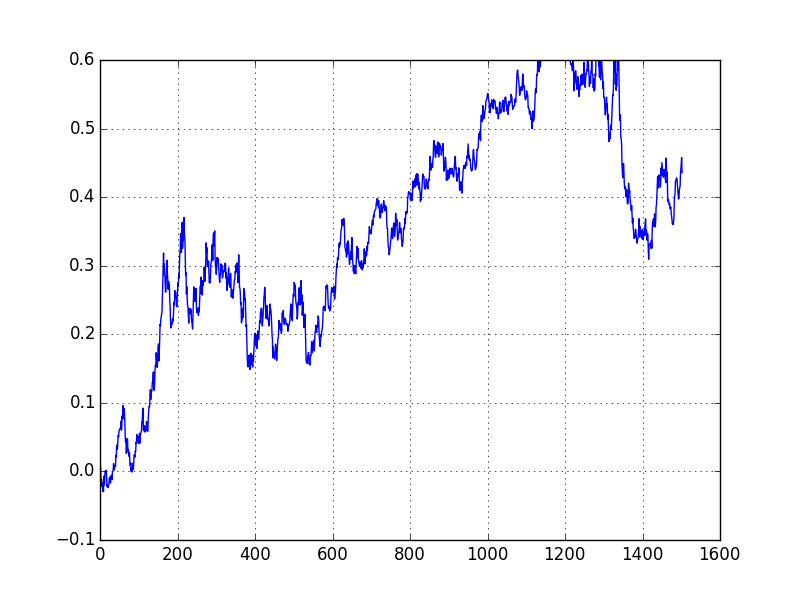
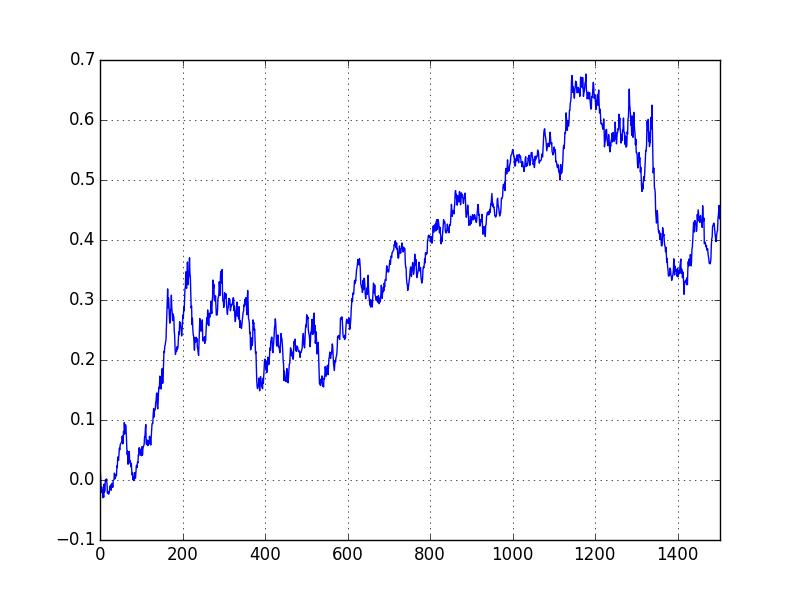
changes

diff --git a/books/Quantitative_Trading_Chan/example3_4.m b/books/Quantitative_Trading_Chan/example3_4.m
@@ -57,3 +57,11 @@ maxDrawdownDuration % maximum drawdown duration. Output should be 369.
 
 
 
+
+
+
+
+
+
+
+

diff --git a/books/Quantitative_Trading_Chan/example3_4.md b/books/Quantitative_Trading_Chan/example3_4.md
@@ -40,7 +40,7 @@ import pandas.io.excel as xl
 spy = xl.read_excel('SPY.xls')
 spy = spy.sort(columns='Date')
 spy['Returns'] = spy['Adj Close'].pct_change()
-spy['netRet']=(ige['Returns'] - spy['Returns'])/2;
+spy['netRet']=(ige['Returns'] - spy['Returns'])/2.;
 spy['cumret']=(1+spy['netRet']).cumprod()-1.0
 print spy.head()
 ```
@@ -62,7 +62,7 @@ print spy.head()
 ```
 
 ```python
-spy['cumret'].plot(xlim=[0,1600],ylim=[-0.1,0.6])
+spy['cumret'].plot()
 plt.savefig('example3_4_01.png'); plt.hold(False)
 ```
 
@@ -84,6 +84,29 @@ print max_dd(spy['cumret'])
 ```text
 -0.367094351256
 ```
+
+```python
+n = 1000
+xs = np.random.randn(n).cumsum()
+i = np.argmax(np.maximum.accumulate(xs) - xs) # end of the period
+j = np.argmax(xs[:i]) # start of period
+plt.hold(False)
+plt.plot(xs)
+plt.hold(True)
+plt.plot([i, j], [xs[i], xs[j]], 'o', color='Red', markersize=10)
+plt.savefig('example3_4_02.png')
+```
+
+![](example3_4_02.png)
+
+
+
+
+
+
+
+
+
 
 
 
